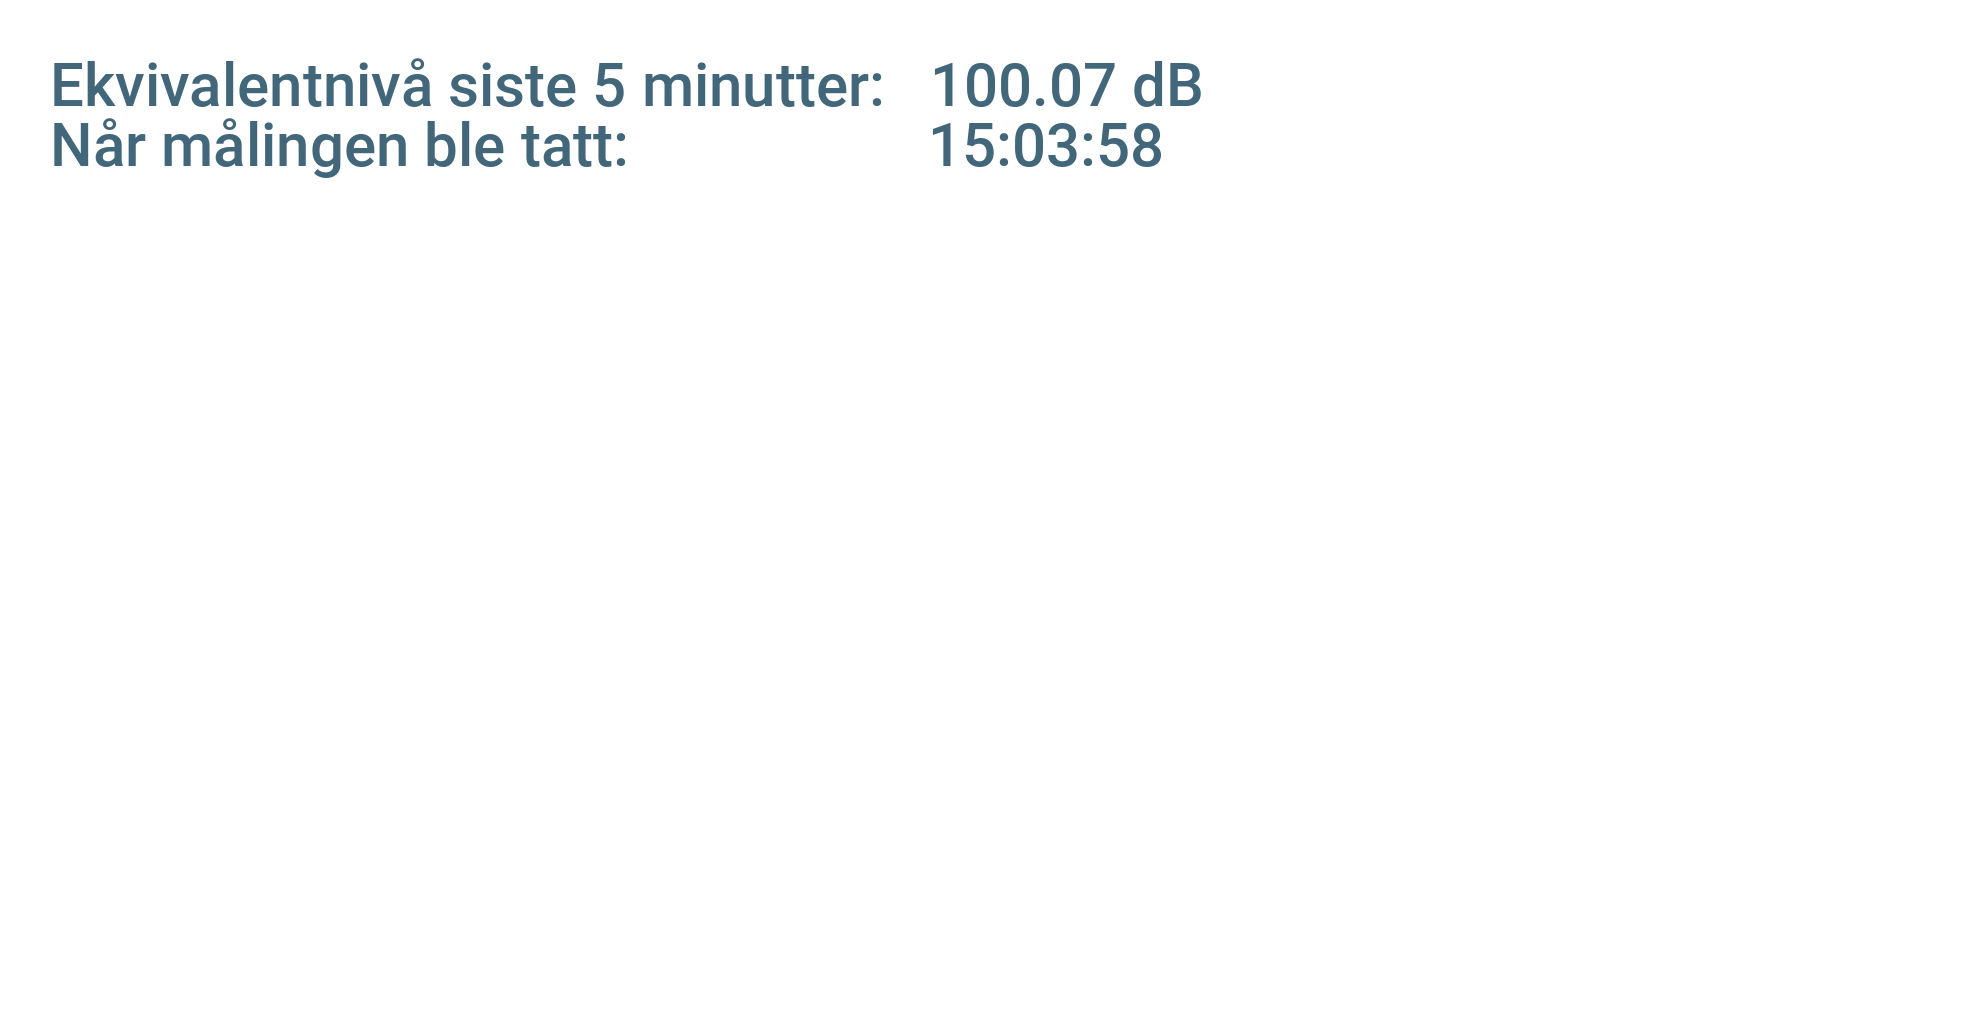
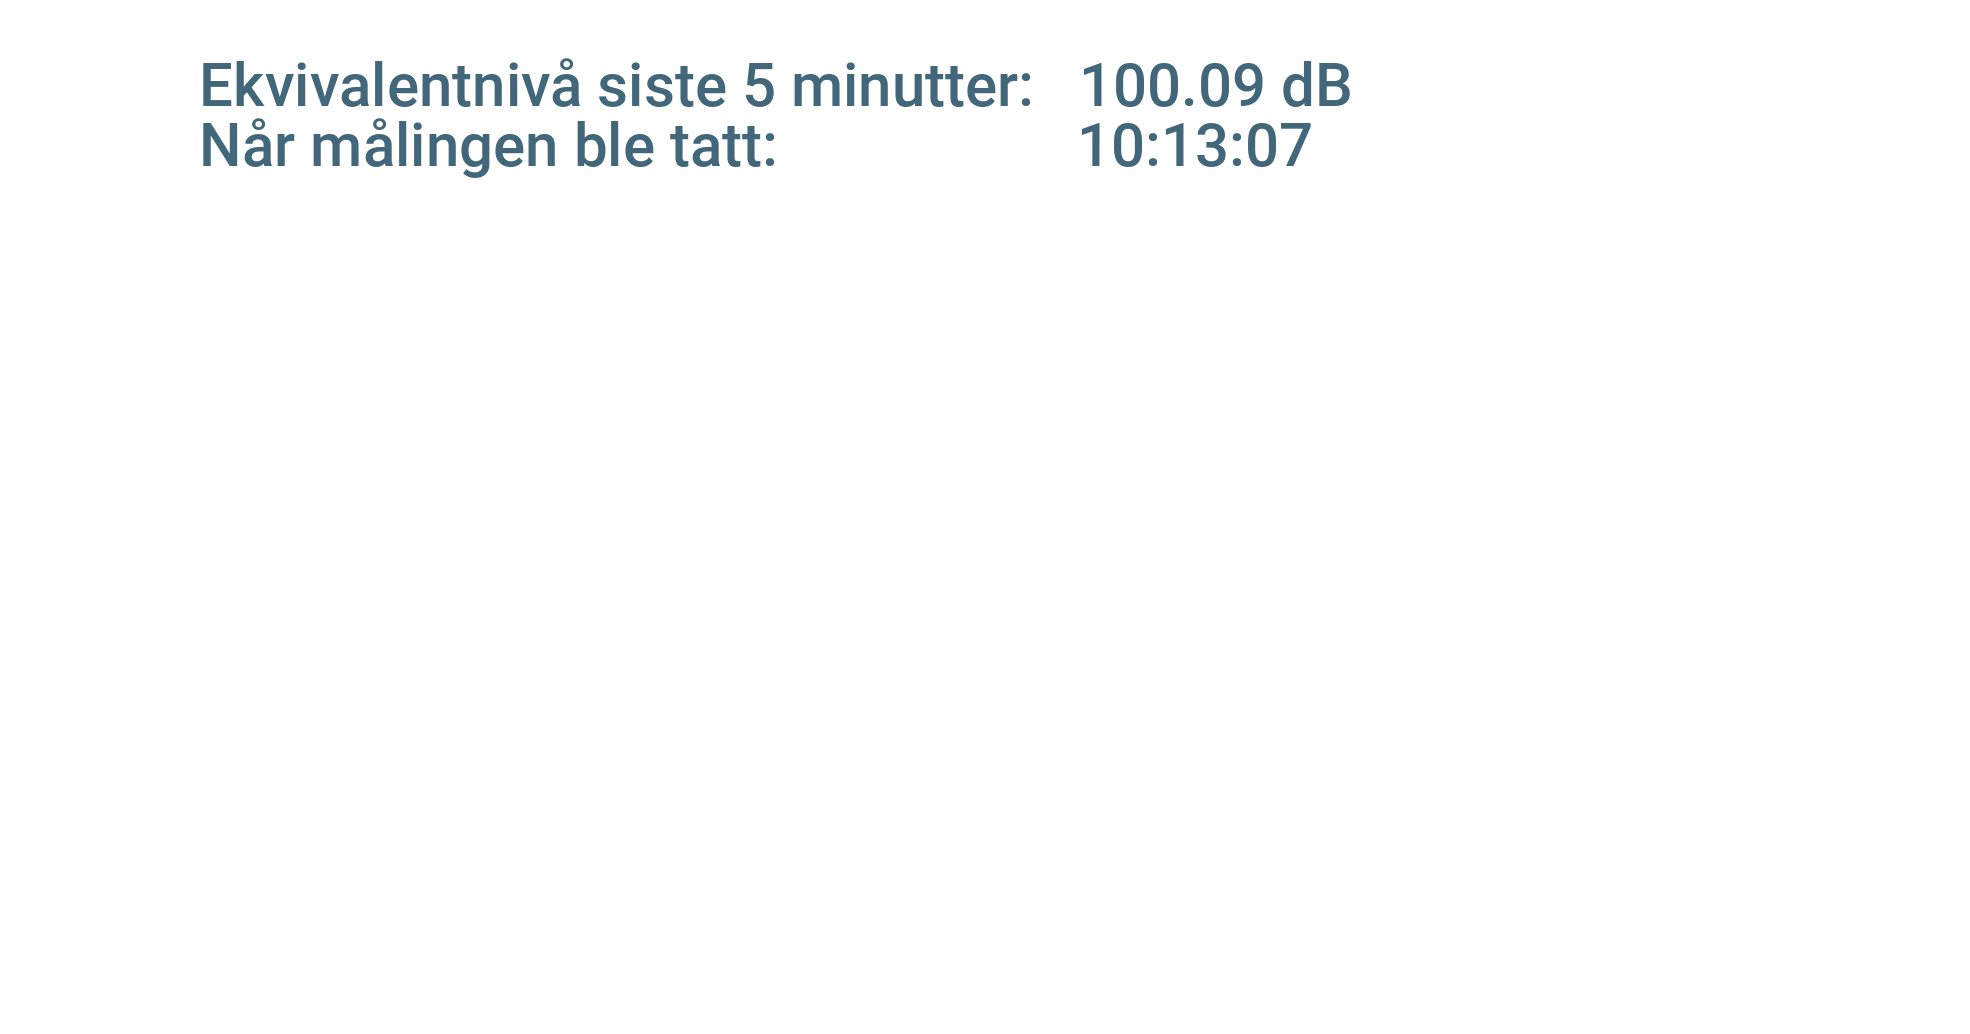
Opprydding

Changed region(s): [[0.0, 0.0619, 0.6812, 0.1857]]

diff --git a/server_demo.py b/server_demo.py
@@ -39,7 +39,7 @@ def send_to_github():
 ##### Programmet #####
 if __name__ == '__main__':
     # Synkronisering med RPi
-    time.sleep(time_sleep)
+    # time.sleep(time_sleep)
 
     while True: 
         print('##### KJØRING #####')
@@ -98,7 +98,7 @@ if __name__ == '__main__':
             my_font = ImageFont.truetype('/Users/ankerlefstad/Desktop/sonuscaptura-demo/elsys-prosjekt/Roboto/Roboto-Medium.ttf', 60)
             
             # Ikke endre whitespace. Dette er formatet
-            draw_im.text((50, 50), f'Ekvivalentnivå siste 5 minutter:   {tempLeq:.2f} dB\nNår målingen ble tatt:                    {filename_comp[3].strip("H")}:{filename_comp[4].strip("M")}:{filename_comp[5].strip("S").split(".")[0]}', fill = (66, 102, 122), font=my_font)
+            draw_im.text((50, 50), f'          Ekvivalentnivå siste 5 minutter:   {tempLeq:.2f} dB\n          Når målingen ble tatt:                    {filename_comp[3].strip("H")}:{filename_comp[4].strip("M")}:{filename_comp[5].strip("S").split(".")[0]}', fill = (66, 102, 122), font=my_font)
             
             # im.show()
             im.save(f'{app_fig_path}/fig-info.png')
